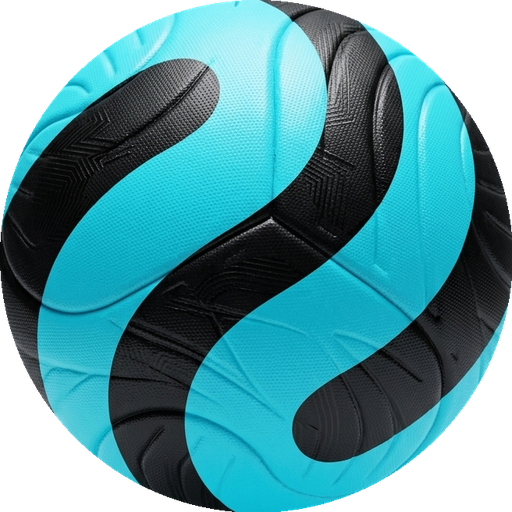
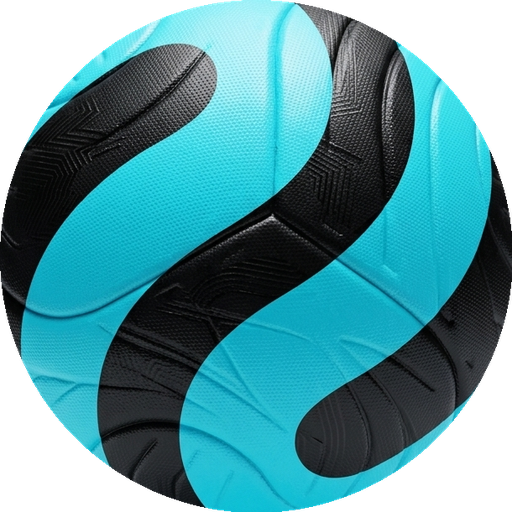
style: tighten crop radius to 305px to completely exclude baked-in cyan glow

Changed region(s): [[0.0, 0.0, 1.0, 1.0], [0.5625, 0.5312, 0.625, 0.5625], [0.25, 0.4375, 0.2812, 0.4688]]

diff --git a/index.html b/index.html
@@ -17,7 +17,7 @@
 
   <!-- Layer 1: floating ball -->
   <div class="ball-wrap" id="ballWrap">
-    <img src="assets/inj_ball_clean.png" alt="Injective Ball" class="ball-img" id="ballImg" />
+    <img src="assets/inj_ball_clean.png?v=2" alt="Injective Ball" class="ball-img" id="ballImg" />
     <div class="ball-shadow"></div>
   </div>
 